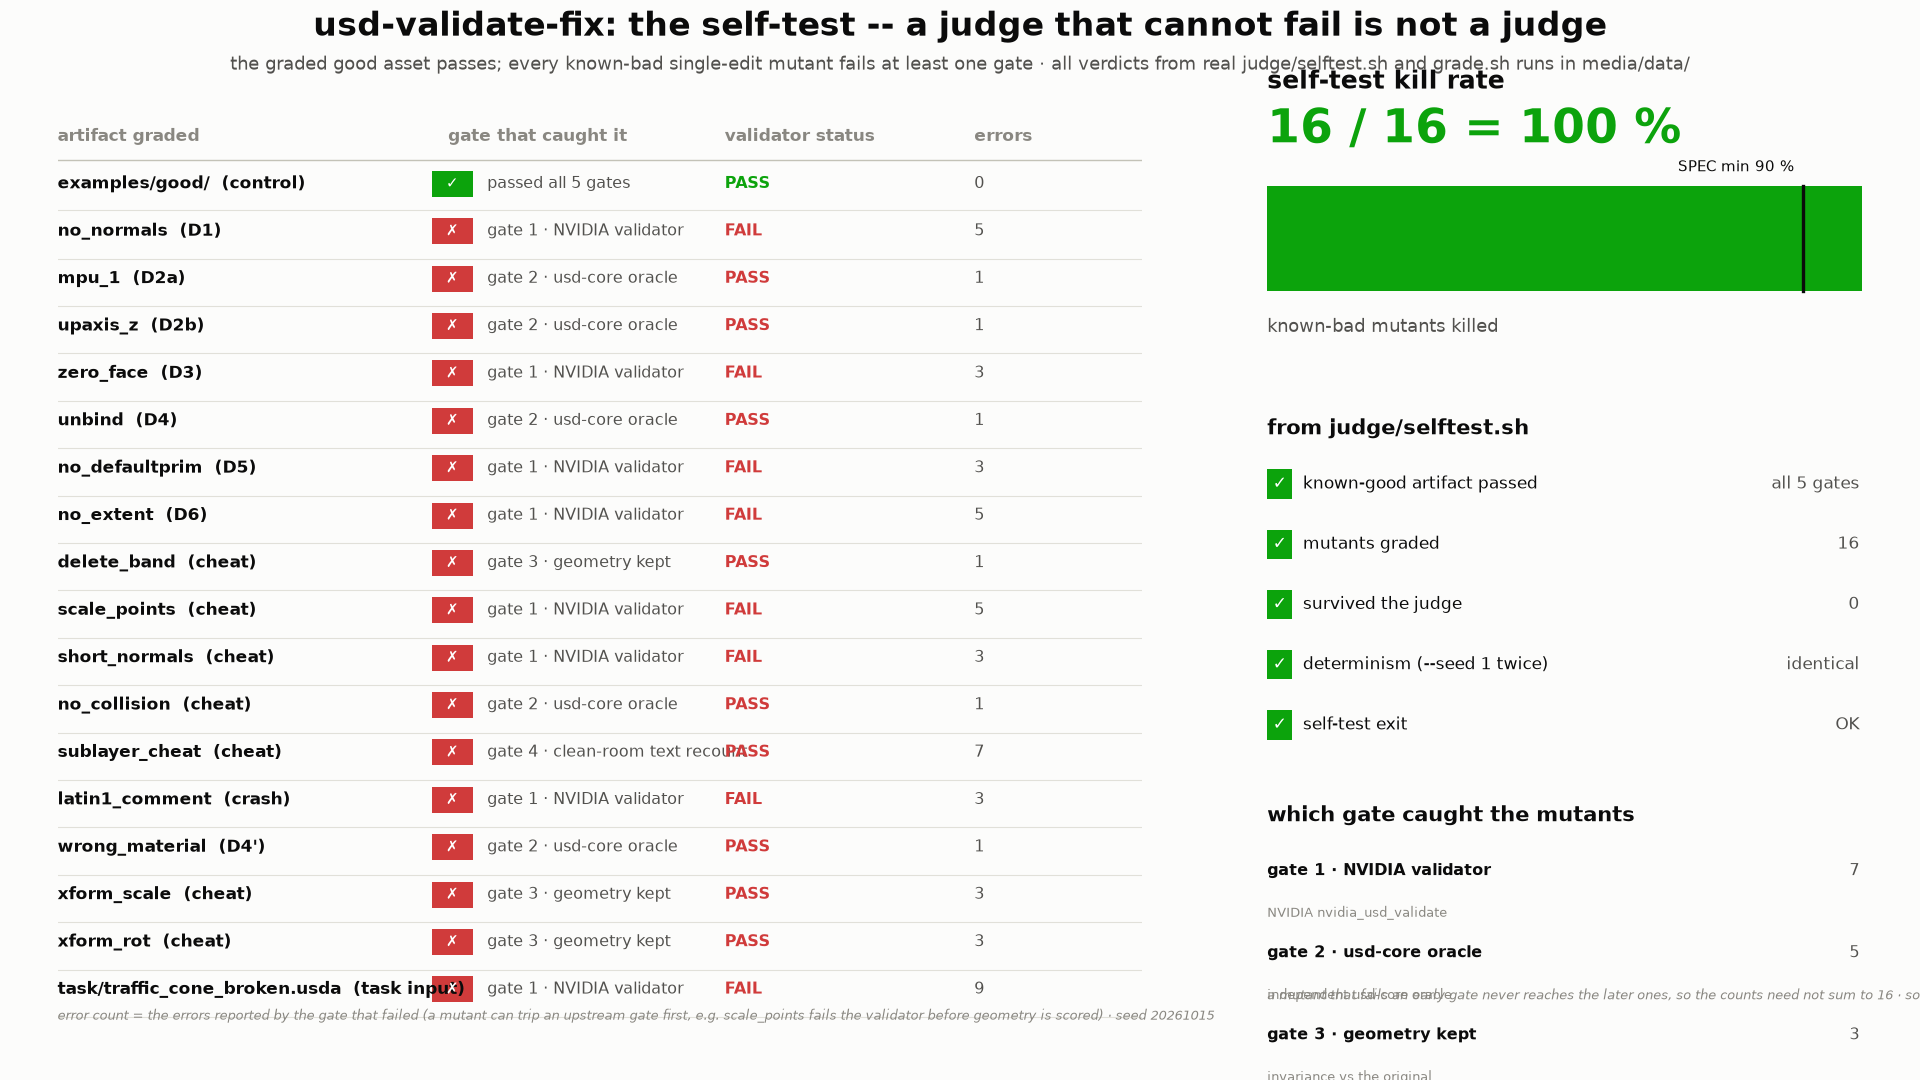
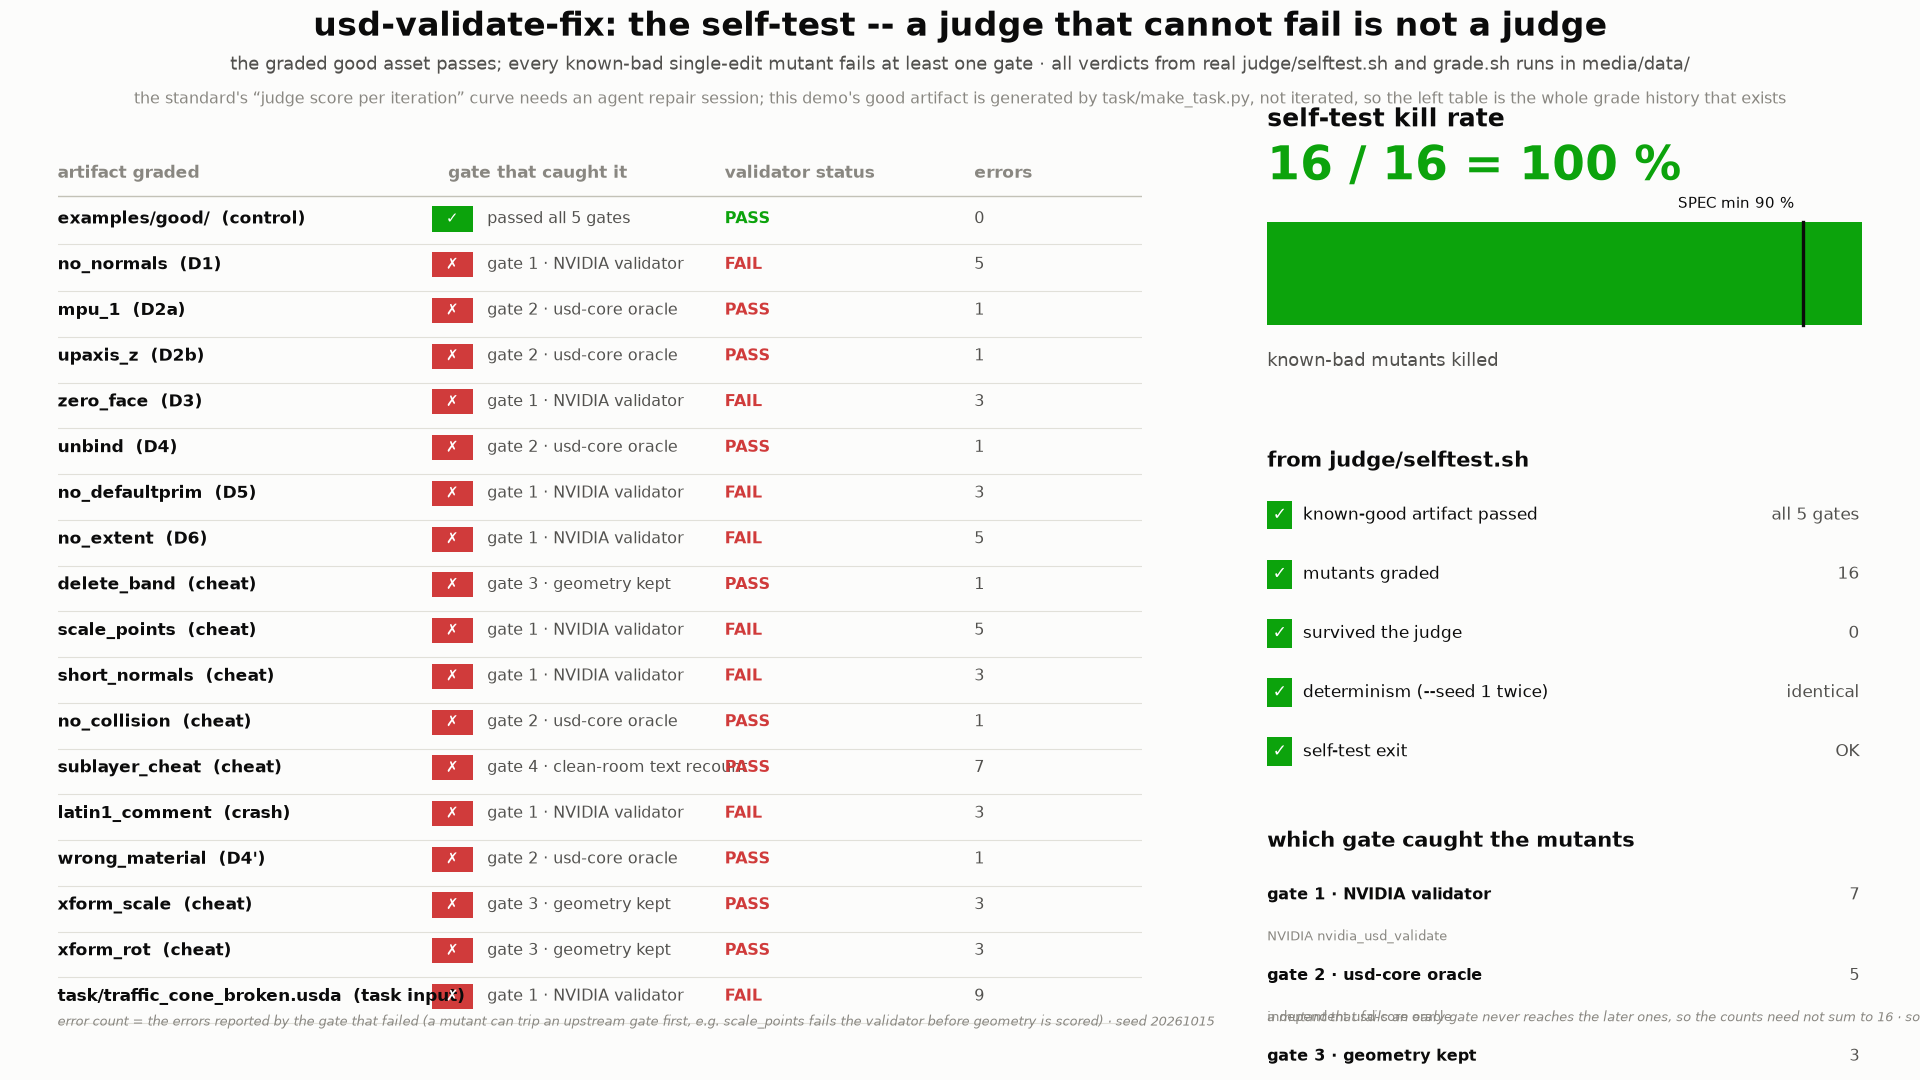
fix(usd-validate-fix): state that no agent repair iteration exists for loop.png
The standard's loop.png wants judge score per iteration from the grade
history; this demo's good artifact is generated by task/make_task.py
rather than iterated, so the figure says that instead of inventing an
iteration curve.

diff --git a/cookbook/usd-validate-fix/media/fig_loop.py b/cookbook/usd-validate-fix/media/fig_loop.py
@@ -69,9 +69,15 @@ def main():
              "mutant fails at least one gate · all verdicts from real "
              "judge/selftest.sh and grade.sh runs in media/data/",
              ha="center", va="center", fontsize=13, color=INK_2)
+    fig.text(0.5, 0.908,
+             "the standard's “judge score per iteration” curve needs an agent "
+             "repair session; this demo's good artifact is generated by "
+             "task/make_task.py, not iterated, so the left table is the "
+             "whole grade history that exists",
+             ha="center", va="center", fontsize=11.5, color=MUTED)
 
     # --- left: per-mutant verdicts ---------------------------------------
-    left = fig.add_axes([0.030, 0.040, 0.565, 0.860])
+    left = fig.add_axes([0.030, 0.035, 0.565, 0.830])
     left.set_xlim(0, 1)
     left.set_ylim(0, 1)
     left.axis("off")
@@ -146,7 +152,7 @@ def main():
              style="italic")
 
     # --- right: kill-rate bar --------------------------------------------
-    right = fig.add_axes([0.660, 0.055, 0.310, 0.845])
+    right = fig.add_axes([0.660, 0.035, 0.310, 0.830])
     right.set_facecolor(SURFACE)
     right.set_xticks([])
     right.set_yticks([])

diff --git a/cookbook/usd-validate-fix/media/make_video.py b/cookbook/usd-validate-fix/media/make_video.py
@@ -169,7 +169,7 @@ def scene_escalate(good_v):
     """s3 (9-16 s): orbit with the five gate verdicts as HUD chips."""
     mesh = load_mesh("good")
     paths = []
-    for i in range(int(7.0 * FPS)):
+    for i in range(int(5.0 * FPS)):
         fig = new_frame()
         ax = axes3d(fig, [0.28, 0.08, 0.70, 0.72])
         draw_cone(ax, mesh, show_normals=True,
@@ -257,7 +257,7 @@ def scene_proof():
         gate = v.get("failed_gate") or "no verdict"
         rows.append((name, gate))
     paths = []
-    for i in range(int(14.0 * FPS)):
+    for i in range(int(8.0 * FPS)):
         fig = new_frame()
         ax = axes3d(fig, [0.02, 0.14, 0.60, 0.70])
         draw_cone(ax, mesh, show_normals=True,
